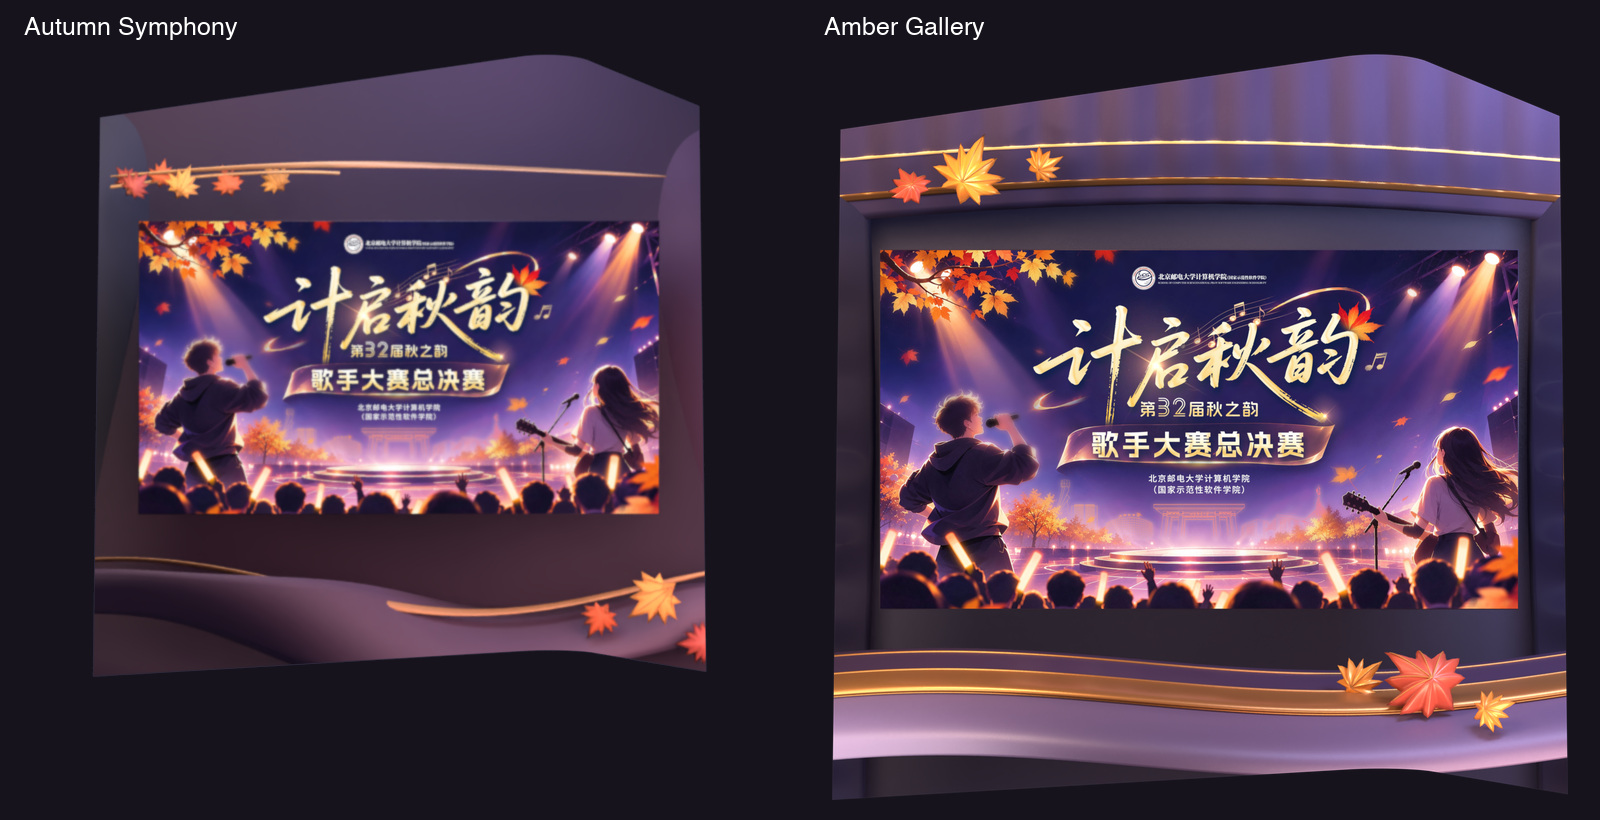
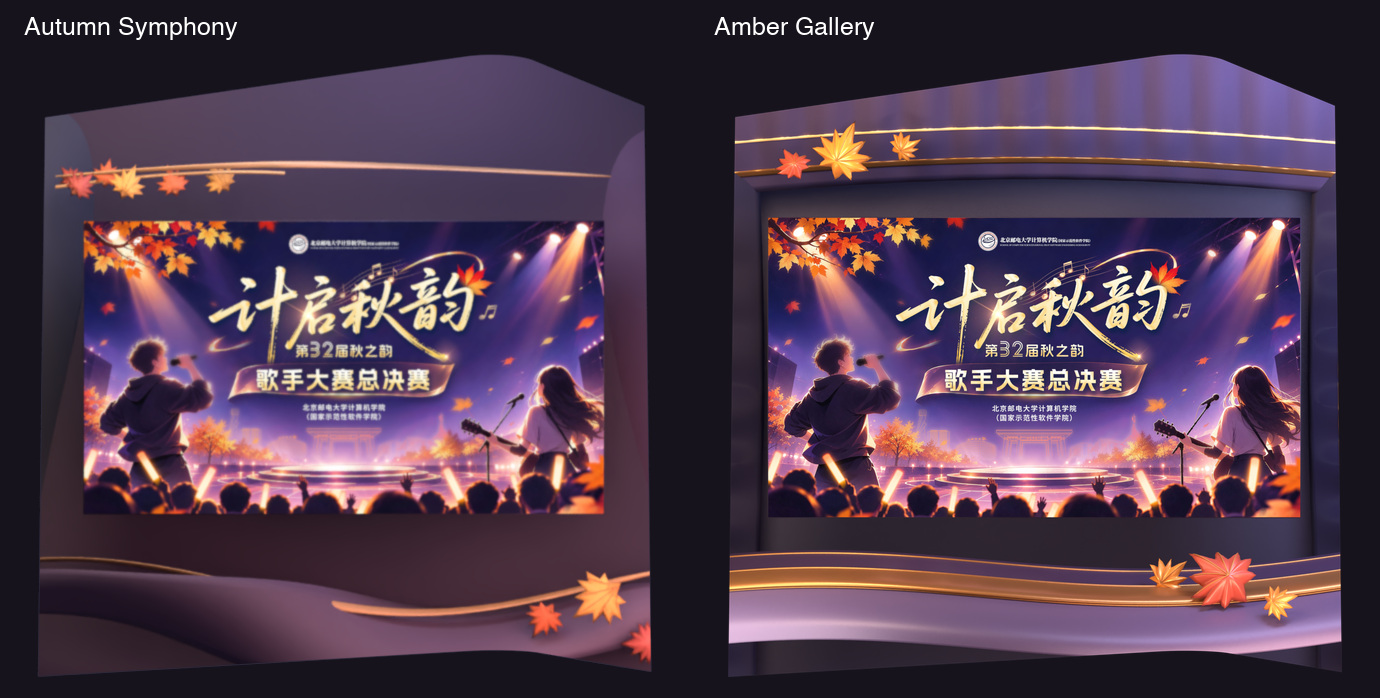
Match screen height in the gallery comparison

diff --git a/examples/amber-gallery/README.md b/examples/amber-gallery/README.md
@@ -6,7 +6,8 @@
 
 采用照片参考外凸预设。海报投影宽度约占可见屏宽 86.5%，保存工程中的原图纹理通过字节哈希校验，527 条海报视线全部无遮挡。播放画布为 4368×3120，海报覆盖率 100%，有效区 MAE 为 0.00353。最终使用 Blender 3.4.1 Cycles CPU 渲染，48 采样。156 项测试通过，浏览器实际上传、样式选择和快速预览通过。P3、90° 和观察点沿用照片参考参数，现场尺寸待测。
 
-- [枫光奏鸣与琥珀回廊的同机位回贴对比](comparison.jpg)
+对比图使用同一机位和相同屏幕展示高度。枫光奏鸣使用四分之一分辨率预览，琥珀回廊使用全尺寸缩图。[查看对比](comparison.jpg)
+
 - [可编辑 Blender 工程](final/scene.blend)
 - [4368×3120 LED 展开图](final/atlas.png)
 - [最佳观看点全尺寸模拟](final/simulation.png)
